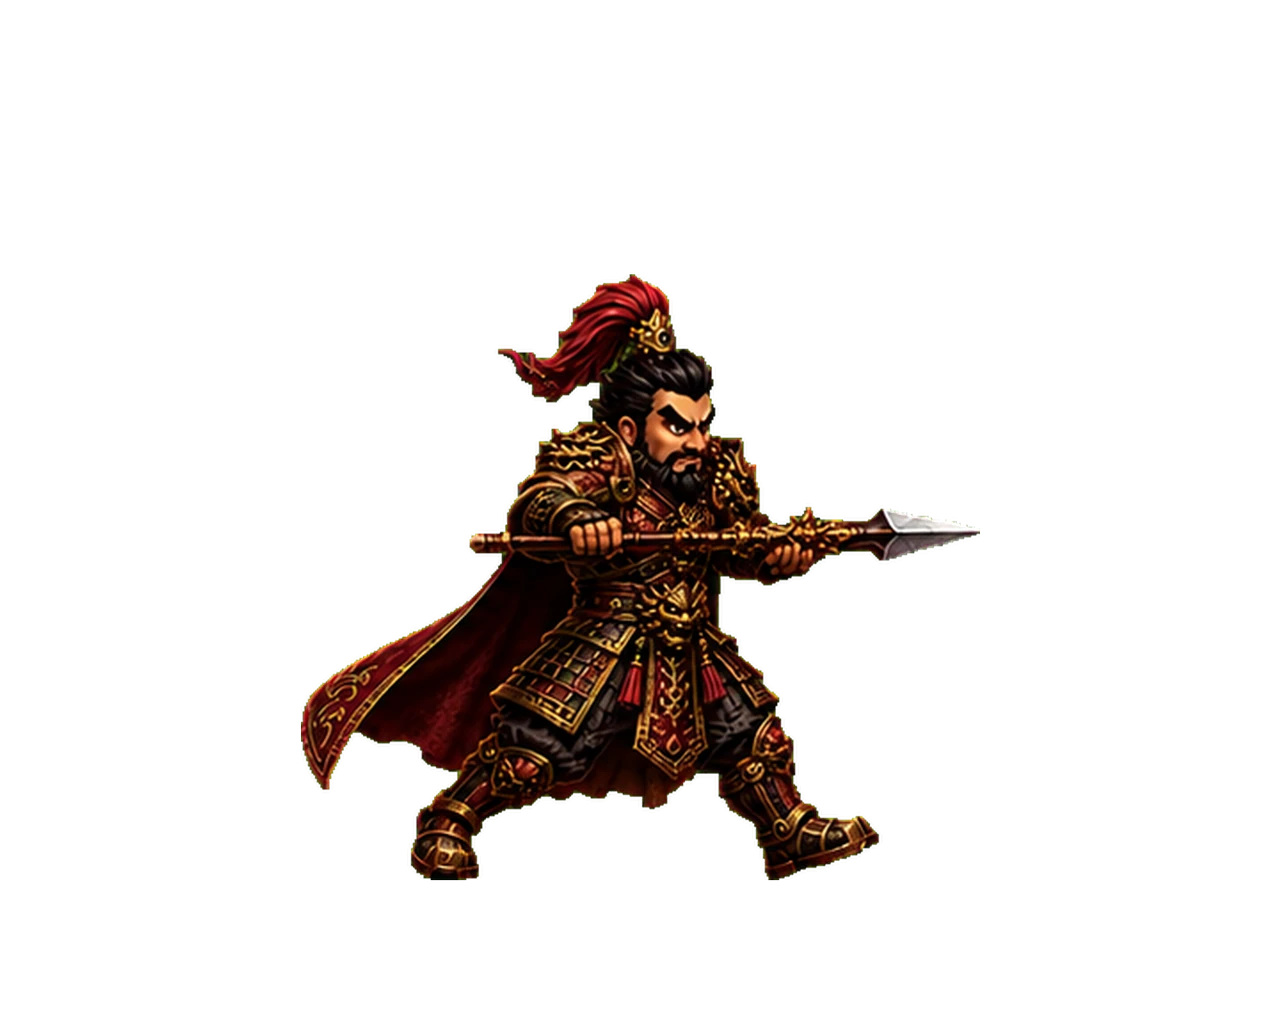
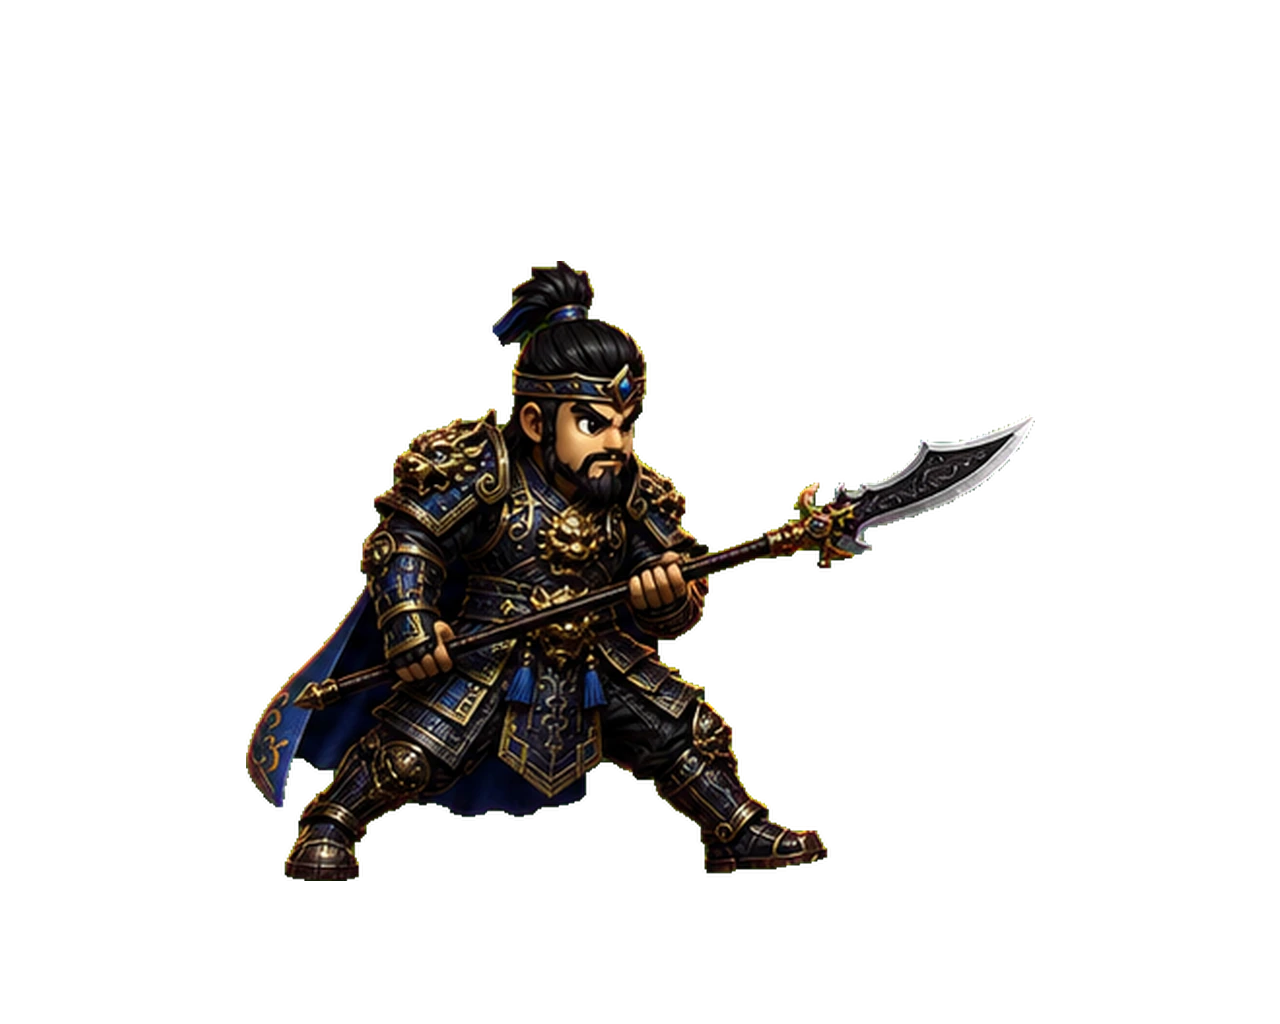
feat(일기토): 장료 21컷 재작성(적→청 망토) + 무기 조각이 옆 컷에 붙던 버그 수정
게임 본편(fullbody_v6)의 장료는 청색 망토·청금 갑주인데 일기토는 적색
망토였다. 21컷을 다시 받았다.

작업 중 split_pose_sheet 의 실제 버그를 찾았다. 떨어져 나온 무기 조각을
'가장 가까운 몸'에 붙이는데, 인물은 모두 오른쪽을 보고 무기를 앞으로
뻗으므로 조각이 주인의 오른쪽에 놓인다. 그래서 오른쪽 옆 인물이 조각을
가져가고 주인은 자루만 남았다(장료 walk3). 조각 왼쪽에 있는 몸에 0.55
가중치를 줘 해결했다 — 재분리하니 5컷 전부 단일 덩어리가 됐다.

이 버그로 1차 시트 A 를 잘못 통과시켰고, 자루만 든 그림으로 만든 참조를
시트 B 에 붙여 모델이 그 결함을 그대로 재현했다. 참조를 다시 만들었다.

공격 시트의 heavy_impact·heavy_recovery 는 원본에서 날이 자루 끝에서
42~49px 떨어져 그려져 있었다. 조각을 자루 끝까지 평행이동해 붙였다.

측정: 하반신차이 15.3% · 접지키차 0.3% · 통과발폭 33% · idle→walk +0.5%
      몸통편차 8% · 피격유사 0.65 · 중복 자세 없음 · 떠 있는 조각 없음
      배선 OK

Changed region(s): [[0.1875, 0.25, 0.8125, 0.875]]

diff --git a/tools/split_pose_sheet.py b/tools/split_pose_sheet.py
@@ -217,10 +217,18 @@ def split_components(fg, body_area=18000, drop_area=1200, erode=9):
     orphans = [i for i in range(n) if drop_area <= sizes[i] < body_area]
 
     owner = {b: [b] for b in bodies}
-    for o in orphans:
+    # 인물은 모두 오른쪽을 보고 무기를 **앞으로** 뻗는다. 그래서 떨어져 나온
+    # 날은 주인의 오른쪽에 놓이고, 거리만 보면 오른쪽 옆 인물에게 넘어간다
+    # (장료 walk3 의 날이 walk4 에 붙어 walk3 은 자루만 남았다).
+    # 조각의 왼쪽에 있는 몸에 가중치를 준다.
+    def claim(o):
         oy, ox = cents[o]
-        best = min(bodies, key=lambda b: (cents[b][0] - oy) ** 2 + (cents[b][1] - ox) ** 2)
-        owner[best].append(o)
+        def cost(b):
+            d = ((cents[b][0] - oy) ** 2 + (cents[b][1] - ox) ** 2) ** 0.5
+            return d * (0.55 if cents[b][1] < ox else 1.0)
+        return min(bodies, key=cost)
+    for o in orphans:
+        owner[claim(o)].append(o)
 
     out = []
     for b in bodies:
